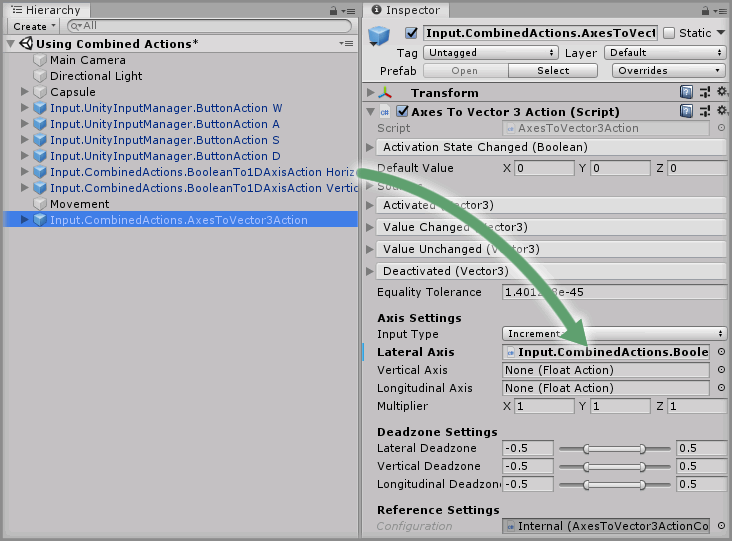
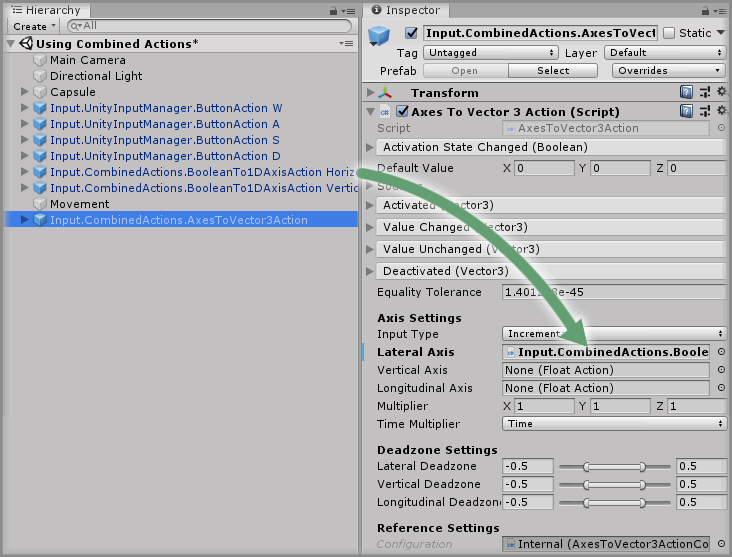
feat(Prefabs): expose time multiplier on AxesToVector3Action
The AxesToVector3Action had a nested internal TimeComponentExtractor
that was used to extract a Time value to multiply the axis data by.

This has now been exposed on the Facade to make it easier to change
and the HowToGuide has been updated to show this needs setting to
Delta Time when doing axis movement.

Changed region(s): [[0.0, 0.0, 1.0, 1.0]]

diff --git a/Runtime/SharedResources/Scripts/AxesToVector3Action.cs b/Runtime/SharedResources/Scripts/AxesToVector3Action.cs
@@ -7,6 +7,7 @@
     using UnityEngine;
     using Zinnia.Action;
     using Zinnia.Data.Attribute;
+    using Zinnia.Data.Operation.Extraction;
     using Zinnia.Data.Type;
 
     /// <summary>
@@ -60,6 +61,12 @@
         [Serialized]
         [field: DocumentedByXml]
         public Vector3 Multiplier { get; set; } = Vector3.one;
+        /// <summary>
+        /// Multiply the output values by this <see cref="Time"/> component.
+        /// </summary>
+        [Serialized]
+        [field: DocumentedByXml]
+        public TimeComponentExtractor.TimeComponent TimeMultiplier { get; set; } = TimeComponentExtractor.TimeComponent.Time;
         #endregion
 
         #region Deadzone Settings
@@ -130,6 +137,7 @@
             Configuration.SetLateralDeadzone(LateralDeadzone);
             Configuration.SetVerticalDeadzone(VerticalDeadzone);
             Configuration.SetLongitudinalDeadzone(LongitudinalDeadzone);
+            Configuration.SetTimeMultiplier(TimeMultiplier);
         }
 
         /// <summary>
@@ -202,6 +210,15 @@
         protected virtual void OnAfterLongitudinalDeadzoneChange()
         {
             Configuration.SetLongitudinalDeadzone(LongitudinalDeadzone);
+        }
+
+        /// <summary>
+        /// Called after <see cref="TimeMultiplier"/> has been changed.
+        /// </summary>
+        [CalledAfterChangeOf(nameof(TimeMultiplier))]
+        protected virtual void OnAfterTimeMultiplierChange()
+        {
+            Configuration.SetTimeMultiplier(TimeMultiplier);
         }
     }
 }

diff --git a/Runtime/SharedResources/Scripts/AxesToVector3ActionConfigurator.cs b/Runtime/SharedResources/Scripts/AxesToVector3ActionConfigurator.cs
@@ -6,6 +6,7 @@
     using Zinnia.Action;
     using Zinnia.Data.Attribute;
     using Zinnia.Data.Collection.List;
+    using Zinnia.Data.Operation.Extraction;
     using Zinnia.Data.Type;
     using Zinnia.Data.Type.Transformation.Conversion;
 
@@ -138,6 +139,12 @@
         [Serialized]
         [field: DocumentedByXml, Restricted]
         public FloatToBoolean LongitudinalBoundsManager { get; set; }
+        /// <summary>
+        /// Extracts a <see cref="Time"/> component.
+        /// </summary>
+        [Serialized]
+        [field: DocumentedByXml, Restricted]
+        public TimeComponentExtractor TimeExtractor { get; set; }
         #endregion
 
         /// <summary>
@@ -220,6 +227,15 @@
         public virtual void SetLongitudinalDeadzone(FloatRange deadzone)
         {
             SetBounds(deadzone, LongitudinalDeadZone, LongitudinalPositiveBounds, LongitudinalNegativeBounds, LongitudinalBoundsManager);
+        }
+
+        /// <summary>
+        /// Sets the <see cref="Time"/> source type to multiply by.
+        /// </summary>
+        /// <param name="component">The component to multiply by.</param>
+        public virtual void SetTimeMultiplier(TimeComponentExtractor.TimeComponent component)
+        {
+            TimeExtractor.Source = component;
         }
 
         /// <summary>

diff --git a/Documentation/API/AxesToVector3Action.md b/Documentation/API/AxesToVector3Action.md
@@ -15,6 +15,7 @@ Converts a lateral, vertical and longitudinal float representation into a Vector
   * [LongitudinalAxis]
   * [LongitudinalDeadzone]
   * [Multiplier]
+  * [TimeMultiplier]
   * [VerticalAxis]
   * [VerticalDeadzone]
 * [Methods]
@@ -24,6 +25,7 @@ Converts a lateral, vertical and longitudinal float representation into a Vector
   * [OnAfterLongitudinalAxisChange()]
   * [OnAfterLongitudinalDeadzoneChange()]
   * [OnAfterMultiplierChange()]
+  * [OnAfterTimeMultiplierChange()]
   * [OnAfterVerticalAxisChange()]
   * [OnAfterVerticalDeadzoneChange()]
   * [OnEnable()]
@@ -120,6 +122,16 @@ Multiply the output values.
 public Vector3 Multiplier { get; set; }
 ```
 
+#### TimeMultiplier
+
+Multiply the output values by this Time component.
+
+##### Declaration
+
+```
+public TimeComponentExtractor.TimeComponent TimeMultiplier { get; set; }
+```
+
 #### VerticalAxis
 
 The FloatAction representing the Vertical (Y Axis)\[up/down\].
@@ -200,6 +212,16 @@ Called after [Multiplier] has been changed.
 
 ```
 protected virtual void OnAfterMultiplierChange()
+```
+
+#### OnAfterTimeMultiplierChange()
+
+Called after [TimeMultiplier] has been changed.
+
+##### Declaration
+
+```
+protected virtual void OnAfterTimeMultiplierChange()
 ```
 
 #### OnAfterVerticalAxisChange()
@@ -287,6 +309,7 @@ public virtual void SetMultiplierZ(float value)
 [LongitudinalAxis]: AxesToVector3Action.md#LongitudinalAxis
 [LongitudinalDeadzone]: AxesToVector3Action.md#LongitudinalDeadzone
 [Multiplier]: AxesToVector3Action.md#Multiplier
+[TimeMultiplier]: AxesToVector3Action.md#TimeMultiplier
 [VerticalAxis]: AxesToVector3Action.md#VerticalAxis
 [VerticalDeadzone]: AxesToVector3Action.md#VerticalDeadzone
 [Multiplier]: AxesToVector3Action.md#Multiplier
@@ -303,6 +326,7 @@ public virtual void SetMultiplierZ(float value)
 [LongitudinalAxis]: #LongitudinalAxis
 [LongitudinalDeadzone]: #LongitudinalDeadzone
 [Multiplier]: #Multiplier
+[TimeMultiplier]: #TimeMultiplier
 [VerticalAxis]: #VerticalAxis
 [VerticalDeadzone]: #VerticalDeadzone
 [Methods]: #Methods
@@ -312,6 +336,7 @@ public virtual void SetMultiplierZ(float value)
 [OnAfterLongitudinalAxisChange()]: #OnAfterLongitudinalAxisChange
 [OnAfterLongitudinalDeadzoneChange()]: #OnAfterLongitudinalDeadzoneChange
 [OnAfterMultiplierChange()]: #OnAfterMultiplierChange
+[OnAfterTimeMultiplierChange()]: #OnAfterTimeMultiplierChange
 [OnAfterVerticalAxisChange()]: #OnAfterVerticalAxisChange
 [OnAfterVerticalDeadzoneChange()]: #OnAfterVerticalDeadzoneChange
 [OnEnable()]: #OnEnable

diff --git a/Documentation/API/AxesToVector3ActionConfigurator.md b/Documentation/API/AxesToVector3ActionConfigurator.md
@@ -23,6 +23,7 @@ Sets up the AxesToVector3Action prefab based on the provided user settings.
   * [LongitudinalNegativeBounds]
   * [LongitudinalPositiveBounds]
   * [Multiplier]
+  * [TimeExtractor]
   * [VerticalAction]
   * [VerticalBoundsManager]
   * [VerticalDeadZone]
@@ -37,6 +38,7 @@ Sets up the AxesToVector3Action prefab based on the provided user settings.
   * [SetLongitudinalAxisSource(FloatAction)]
   * [SetLongitudinalDeadzone(FloatRange)]
   * [SetMultiplier(Vector3)]
+  * [SetTimeMultiplier(TimeComponentExtractor.TimeComponent)]
   * [SetVerticalAxisSource(FloatAction)]
   * [SetVerticalDeadzone(FloatRange)]
 
@@ -207,6 +209,16 @@ The collection used to multiply the output Vector3.
 
 ```
 public Vector3ObservableList Multiplier { get; set; }
+```
+
+#### TimeExtractor
+
+Extracts a Time component.
+
+##### Declaration
+
+```
+public TimeComponentExtractor TimeExtractor { get; set; }
 ```
 
 #### VerticalAction
@@ -394,6 +406,22 @@ public virtual void SetMultiplier(Vector3 multiplier)
 | --- | --- | --- |
 | Vector3 | multiplier | The new multiplier to use. |
 
+#### SetTimeMultiplier(TimeComponentExtractor.TimeComponent)
+
+Sets the Time source type to multiply by.
+
+##### Declaration
+
+```
+public virtual void SetTimeMultiplier(TimeComponentExtractor.TimeComponent component)
+```
+
+##### Parameters
+
+| Type | Name | Description |
+| --- | --- | --- |
+| TimeComponentExtractor.TimeComponent | component | The component to multiply by. |
+
 #### SetVerticalAxisSource(FloatAction)
 
 Adds the given source to the [VerticalAction] Sources collection.
@@ -450,6 +478,7 @@ public virtual void SetVerticalDeadzone(FloatRange deadzone)
 [LongitudinalNegativeBounds]: #LongitudinalNegativeBounds
 [LongitudinalPositiveBounds]: #LongitudinalPositiveBounds
 [Multiplier]: #Multiplier
+[TimeExtractor]: #TimeExtractor
 [VerticalAction]: #VerticalAction
 [VerticalBoundsManager]: #VerticalBoundsManager
 [VerticalDeadZone]: #VerticalDeadZone
@@ -464,5 +493,6 @@ public virtual void SetVerticalDeadzone(FloatRange deadzone)
 [SetLongitudinalAxisSource(FloatAction)]: #SetLongitudinalAxisSourceFloatAction
 [SetLongitudinalDeadzone(FloatRange)]: #SetLongitudinalDeadzoneFloatRange
 [SetMultiplier(Vector3)]: #SetMultiplierVector3
+[SetTimeMultiplier(TimeComponentExtractor.TimeComponent)]: #SetTimeMultiplierTimeComponentExtractor.TimeComponent
 [SetVerticalAxisSource(FloatAction)]: #SetVerticalAxisSourceFloatAction
 [SetVerticalDeadzone(FloatRange)]: #SetVerticalDeadzoneFloatRange

diff --git a/Documentation/HowToGuides/UsingCombinedActions/README.md b/Documentation/HowToGuides/UsingCombinedActions/README.md
@@ -106,6 +106,12 @@ Drag and drop the `Input.CombinedActions.BooleanTo1DAxisAction Vertical` GameObj
 
 ![Longitudinal Axis](assets/images/LongitudinalAxis.png)
 
+Change the `Time Multiplier` property to `Delta Time` on the `Axes To Vector3 Action` component.
+
+![Set Time Multiplier To Delta Time](assets/images/SetTimeMultiplierToDeltaTime.png)
+
+> We want this to be `Delta Time` as we only want to multiply our axis values based on the time since the last update frame only, otherwise our movement speed would be too fast.
+
 ### Step 10
 
 Select the `Input.CombinedActions.AxesToVector3Action` GameObject from the Unity Hierarchy and click the `+` symbol in the bottom right corner of the `Value Changed` event parameter on the `Axes To Vector3 Action` component.
